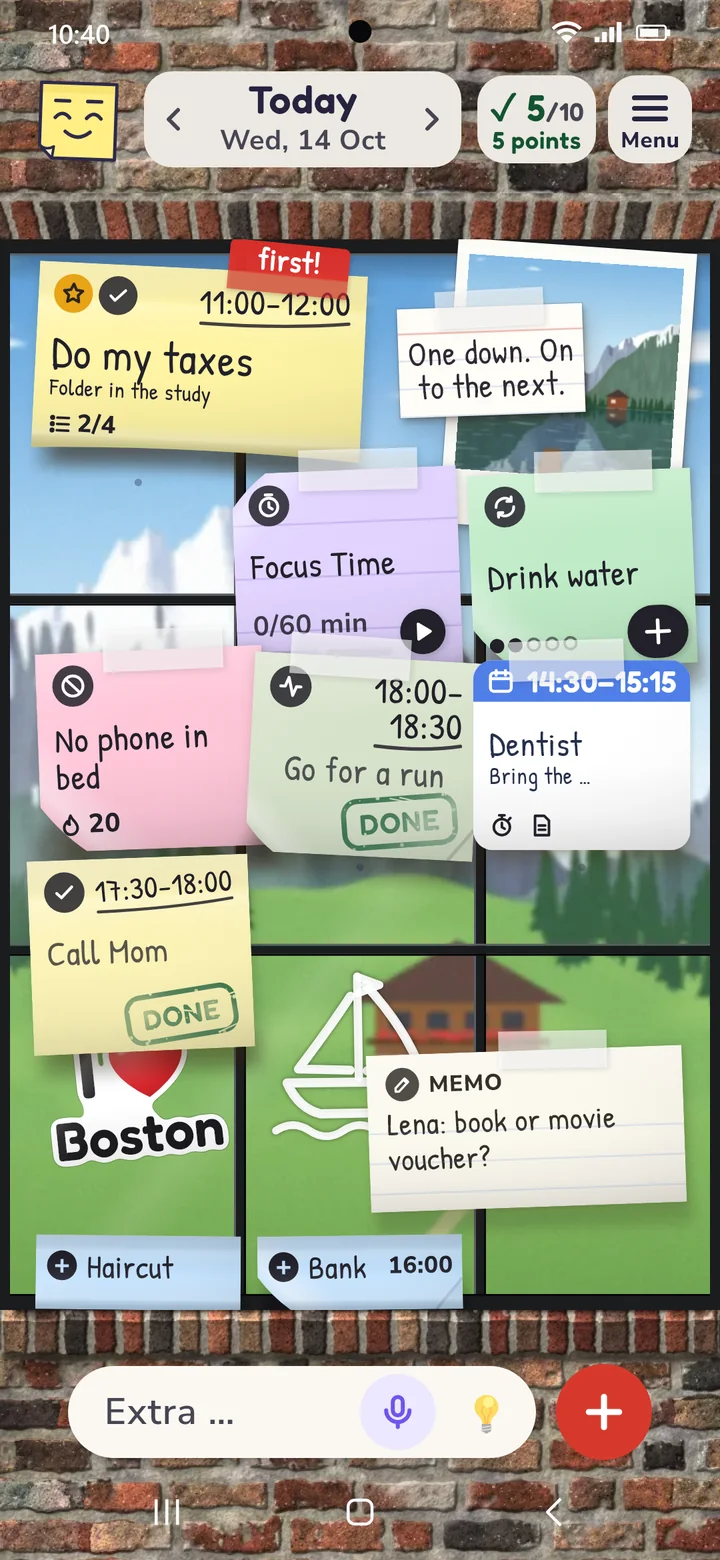
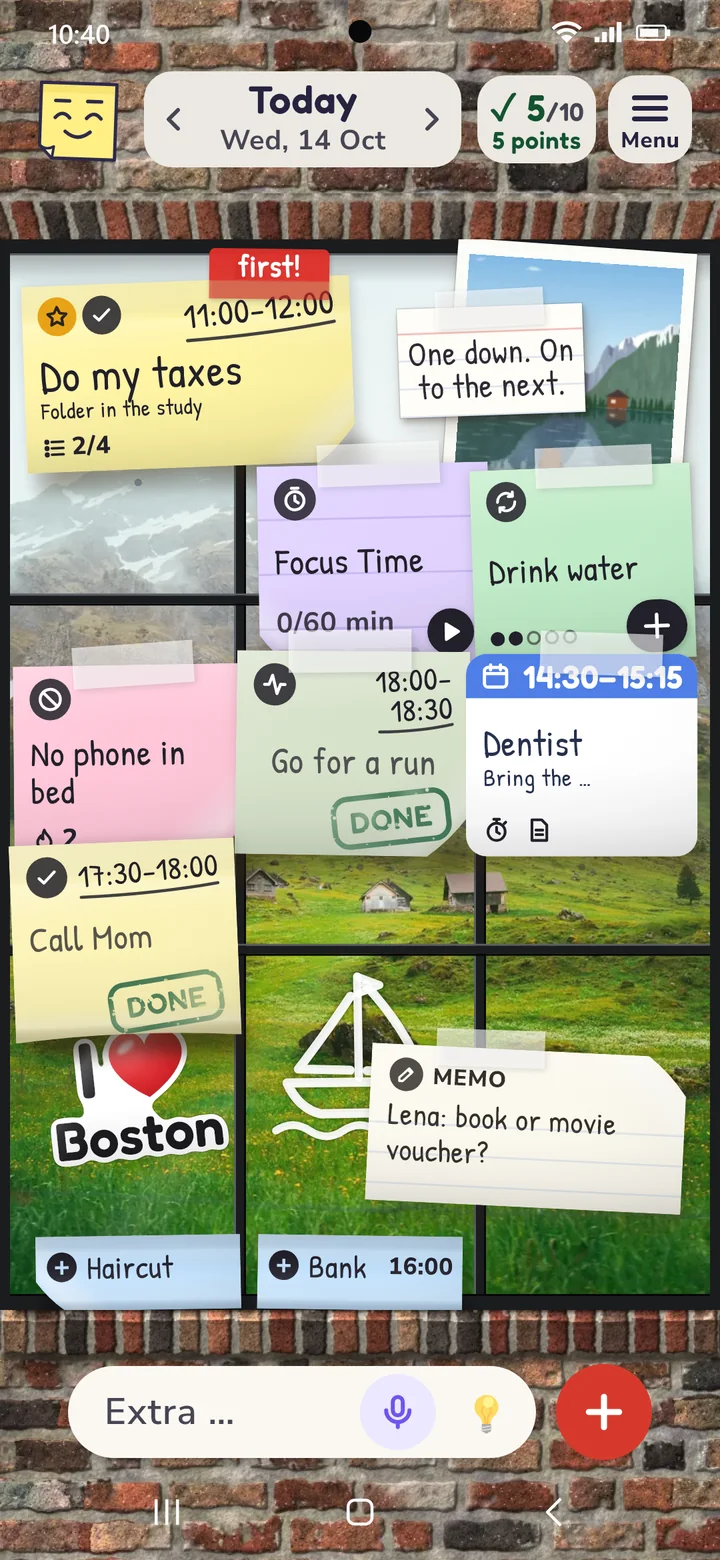
Fenster-Bilder mit echten Fotos

diff --git a/index.html b/index.html
@@ -211,8 +211,8 @@
         <figure><picture><img src="img/leinen.webp" width="720" height="1560" loading="lazy" alt="Stil Leinen: ruhige Zettel in gedeckten Farben mit kleinen grauen Nadeln auf Leinen im hellen Birkenrahmen."></picture><figcaption><b>Leinen</b><span class="say-style">Ruhig wie ein Notizbuch: Leinen im hellen Rahmen, gedeckte Farben, kleine Nadeln.</span></figcaption></figure>
         <figure><picture><img src="img/whiteboard.webp" width="720" height="1560" loading="lazy" alt="Stil Whiteboard: Zettel mit Magneten auf einer weißen Tafel."></picture><figcaption><b>Whiteboard</b><span class="say-style">Glänzende Tafel im Alurahmen, jeder Zettel hält mit einem Magneten.</span></figcaption></figure>
         <figure><picture><img src="img/bento.webp" width="720" height="1560" loading="lazy" alt="Stil Bento: kräftige Kacheln, Farbe und Zeichen je Art."></picture><figcaption><b>Bento</b><span class="say-style">Kräftige Kacheln, Farbe und Zeichen je Art, klare Schrift.</span></figcaption></figure>
-        <figure><picture><img src="img/fenster.webp" width="720" height="1560" loading="lazy" alt="Stil Fenster mit Rahmen: Zettel auf einer Fensterscheibe mit Sprossen, Blick auf Berge."></picture><figcaption><b>Fenster · mit Rahmen</b><span class="say-style">Eine Scheibe mit Sprossen und Aussicht, die Zettel kleben auf dem Glas. Auch mit deinem eigenen Foto.</span></figcaption></figure>
-        <figure><picture><img src="img/fenster_c.webp" width="720" height="1560" loading="lazy" alt="Stil Fenster ohne Rahmen: Zettel auf einer großen Scheibe mit Blick aufs Meer."></picture><figcaption><b>Fenster · ohne Rahmen</b><span class="say-style">Eine große Glasscheibe, nichts als die Aussicht und deine Zettel.</span></figcaption></figure>
+        <figure><picture><img src="img/fenster.webp" width="720" height="1560" loading="lazy" alt="Stil Fenster mit Rahmen: Zettel auf einer Fensterscheibe mit Sprossen, Blick auf eine Almwiese."></picture><figcaption><b>Fenster · mit Rahmen</b><span class="say-style">Eine Scheibe mit Sprossen und Aussicht, die Zettel kleben auf dem Glas. Auch mit deinem eigenen Foto.</span></figcaption></figure>
+        <figure><picture><img src="img/fenster_c.webp" width="720" height="1560" loading="lazy" alt="Stil Fenster ohne Rahmen: Zettel auf einer großen Scheibe mit Blick aufs Meer und ein Segelboot."></picture><figcaption><b>Fenster · ohne Rahmen</b><span class="say-style">Eine große Glasscheibe, nichts als die Aussicht und deine Zettel.</span></figcaption></figure>
         <figure><picture><img src="img/glas.webp" width="720" height="1560" loading="lazy" alt="Stil Glas &amp; Glow: Aufgaben als Liste auf mattem Glas vor sanftem Farbverlauf."></picture><figcaption><b>Glas &amp; Glow</b><span class="say-style">Mattes Glas über leuchtendem Farbschimmer.</span></figcaption></figure>
         <figure><picture><img src="img/editorial.webp" width="720" height="1560" loading="lazy" alt="Stil Editorial: große Schrift in Schwarz-Weiß wie ein Fahrplan, eine Akzentfarbe."></picture><figcaption><b>Editorial</b><span class="say-style">Große Serifen-Schrift, Schwarz-Weiß und eine Akzentfarbe.</span></figcaption></figure>
         <figure><picture><img src="img/klar.webp" width="720" height="1560" loading="lazy" alt="Stil Klar: eine ruhige Liste, links die Uhrzeit."></picture><figcaption><b>Klar</b><span class="say-style">Eine ruhige Liste: Uhrzeit links, große Schrift, alle Zettel auf einen Blick.</span></figcaption></figure>

diff --git a/en/index.html b/en/index.html
@@ -202,8 +202,8 @@
         <figure><picture><img src="../img/leinen_en.webp" width="720" height="1560" loading="lazy" alt="Linen style: calm notes in muted colors with small gray pins on linen in a light birch frame."></picture><figcaption><b>Linen</b><span class="say-style">Calm like a notebook: linen in a light frame, muted colors, small pins.</span></figcaption></figure>
         <figure><picture><img src="../img/whiteboard_en.webp" width="720" height="1560" loading="lazy" alt="Whiteboard style: notes held by magnets on a white board."></picture><figcaption><b>Whiteboard</b><span class="say-style">Glossy board in an aluminum frame, every note held by a magnet.</span></figcaption></figure>
         <figure><picture><img src="../img/bento_en.webp" width="720" height="1560" loading="lazy" alt="Bento style: bold tiles, a color and icon for each kind."></picture><figcaption><b>Bento</b><span class="say-style">Bold tiles, a color and icon for each kind, clear type.</span></figcaption></figure>
-        <figure><picture><img src="../img/fenster_en.webp" width="720" height="1560" loading="lazy" alt="Window style with frame: notes on a window pane with glazing bars, mountain view."></picture><figcaption><b>Window · with frame</b><span class="say-style">A pane with glazing bars and a view, notes stuck on the glass. Your own photo works too.</span></figcaption></figure>
-        <figure><picture><img src="../img/fenster_c_en.webp" width="720" height="1560" loading="lazy" alt="Frameless window style: notes on a large pane with a sea view."></picture><figcaption><b>Window · frameless</b><span class="say-style">One large pane of glass, nothing but the view and your notes.</span></figcaption></figure>
+        <figure><picture><img src="../img/fenster_en.webp" width="720" height="1560" loading="lazy" alt="Window style with frame: notes on a window pane with glazing bars, view of an alpine meadow."></picture><figcaption><b>Window · with frame</b><span class="say-style">A pane with glazing bars and a view, notes stuck on the glass. Your own photo works too.</span></figcaption></figure>
+        <figure><picture><img src="../img/fenster_c_en.webp" width="720" height="1560" loading="lazy" alt="Frameless window style: notes on a large pane with a view of the sea and a sailing boat."></picture><figcaption><b>Window · frameless</b><span class="say-style">One large pane of glass, nothing but the view and your notes.</span></figcaption></figure>
         <figure><picture><img src="../img/glas_en.webp" width="720" height="1560" loading="lazy" alt="Glass &amp; Glow style: tasks as a list on frosted glass over a soft gradient."></picture><figcaption><b>Glass &amp; Glow</b><span class="say-style">Frosted glass over a glowing shimmer.</span></figcaption></figure>
         <figure><picture><img src="../img/editorial_en.webp" width="720" height="1560" loading="lazy" alt="Editorial style: large black-and-white type like a timetable, one accent color."></picture><figcaption><b>Editorial</b><span class="say-style">Large serif type, black and white and one accent color.</span></figcaption></figure>
         <figure><picture><img src="../img/klar_en.webp" width="720" height="1560" loading="lazy" alt="Clear style: a calm list with the time on the left."></picture><figcaption><b>Clear</b><span class="say-style">A calm list: time on the left, large type, all notes at a glance.</span></figcaption></figure>
